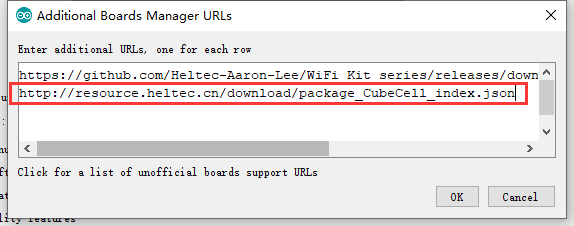
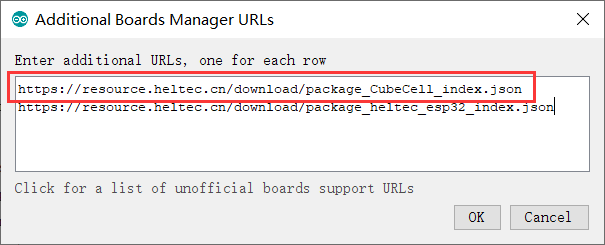
Update ESP32 relevant documents

Changed region(s): [[0.0, 0.0, 1.0, 1.0]]

diff --git a/en/source/esp32/wifi_lora_32/hardware_update_log.md b/en/source/esp32/wifi_lora_32/hardware_update_log.md
@@ -52,3 +52,10 @@
 
 ![](img/hardware_update_log/03.png)
 
+- 2019-6-15  public sale
+- Change the RF switch from PE4259 to UPG2179, and change the RF part to the official recommended value;
+- Change the power detection pin from 13(ADC2: 4) to 37(ADC1: 1).
+- [Pinout diagram of V2.1](https://resource.heltec.cn/download/WiFi_LoRa_32/WIFI_LoRa_32_V2.1.pdf)
+- Schematic diagram of V2.1
+  - [433, 470~510 Version](https://resource.heltec.cn/download/WiFi_LoRa_32/V2.1/WiFi_LoRa_32_V2.1(433%2C470-510).PDF)
+  - [868~915 Version](https://resource.heltec.cn/download/WiFi_LoRa_32/V2.1/WIFI_LoRa_32_V2.1(868-915).PDF)

diff --git a/en/source/esp32+arduino/quick_start.md b/en/source/esp32+arduino/quick_start.md
@@ -18,7 +18,7 @@ Before all operations, please confirm whether the `USB driver`, `Git` and `Ardui
 
 ![](img/quick_start/02.png)
 
-**Input the last ESP32 package URL:** [http://resource.heltec.cn/download/package_heltec_esp32_index.json](http://resource.heltec.cn/download/package_heltec_esp32_index.json)
+**Input the last ESP32 package URL:** [https://resource.heltec.cn/download/package_heltec_esp32_index.json](https://resource.heltec.cn/download/package_heltec_esp32_index.json)
 
 ![](img/quick_start/03.png)
 

diff --git a/en/source/esp32/quick_start.md b/en/source/esp32/quick_start.md
@@ -22,7 +22,7 @@ Open Arduino IDE, and click `File`->`Peferences`.
 
 ![](img/quick_start/02.png)
 
-**Input the last ESP32 package URL:** [http://resource.heltec.cn/download/package_heltec_esp32_index.json](http://resource.heltec.cn/download/package_heltec_esp32_index.json)
+**Input the last ESP32 package URL:** [https://resource.heltec.cn/download/package_heltec_esp32_index.json](https://resource.heltec.cn/download/package_heltec_esp32_index.json)
 
 ![](img/quick_start/03.png)
 

diff --git a/en/source/cubecell/quick_start.md b/en/source/cubecell/quick_start.md
@@ -24,7 +24,7 @@ Open Arduino IDE, and click `File`->`Peferences`->`Settings`
 
 Input following json url to board manager URLs:
 
-[http://resource.heltec.cn/download/package_CubeCell_index.json](http://resource.heltec.cn/download/package_CubeCell_index.json)
+[https://resource.heltec.cn/download/package_CubeCell_index.json](https://resource.heltec.cn/download/package_CubeCell_index.json)
 
 ![](img/quick_start/03.png)
 
